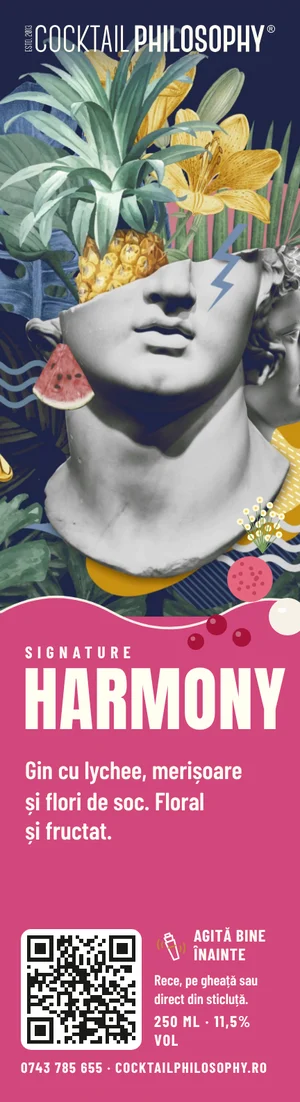
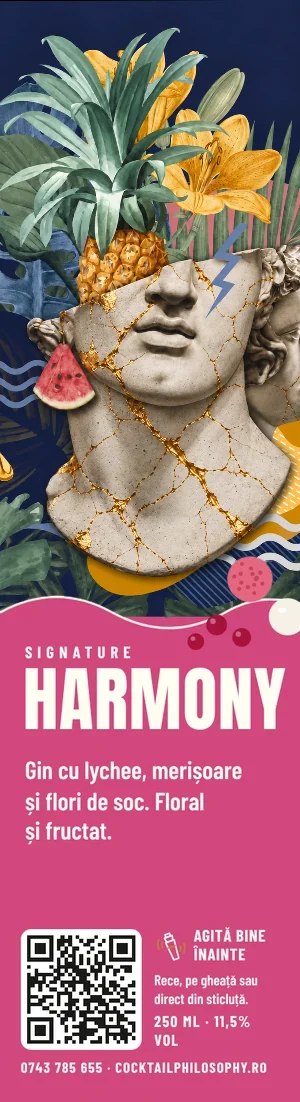
Sticluțe: etichetele de pe site cu statuia cu fisuri aurii
Claude-Session: https://claude.ai/code/session_019cz3UXkU5cUphGPstisMHZ

diff --git a/site-nou/sticlute.html b/site-nou/sticlute.html
@@ -142,11 +142,11 @@
 <h2 class="h2">Cinci cocktailuri, <span class="gold">cinci culori</span></h2>
 </div>
 <div class="serie">
-<article class="sticla st-platon"><img src="img/sticlute/platon.webp" alt="Eticheta sticluței Platon" width="300" height="1102" loading="lazy"><div><span>Signature</span><h3>Platon</h3><p>Gin cu grapefruit și aloe vera, cu o notă de cimbrișor. Proaspăt și ierbos.</p><small>250 ml · 10% vol</small></div></article>
-<article class="sticla st-erasmus"><img src="img/sticlute/erasmus.webp" alt="Eticheta sticluței Erasmus" width="300" height="1102" loading="lazy"><div><span>Signature</span><h3>Erasmus</h3><p>Vodka cu pere și ghimbir, înviorată cu lime. Dulce, cu o înțepătură caldă.</p><small>250 ml · 14% vol</small></div></article>
-<article class="sticla st-harmony"><img src="img/sticlute/harmony.webp" alt="Eticheta sticluței Harmony" width="300" height="1102" loading="lazy"><div><span>Signature</span><h3>Harmony</h3><p>Gin cu lychee, merișoare și flori de soc. Floral și fructat.</p><small>250 ml · 11,5% vol</small></div></article>
-<article class="sticla st-whiskey"><img src="img/sticlute/whiskey-sour.webp" alt="Eticheta sticluței Whiskey Sour" width="300" height="1102" loading="lazy"><div><span>Signature</span><h3>Whiskey Sour</h3><p>Whiskey cu citrice și migdale, rotunjit cu bitter. Clasicul catifelat.</p><small>250 ml · 15% vol</small></div></article>
-<article class="sticla st-pornstar"><img src="img/sticlute/pornstar-cuban.webp" alt="Eticheta sticluței Pornstar Cuban" width="300" height="1102" loading="lazy"><div><span>Signature</span><h3>Pornstar Cuban</h3><p>Rom cu fructul pasiunii și lămâie. Exotic și acrișor.</p><small>250 ml · 11% vol</small></div></article>
+<article class="sticla st-platon"><img src="img/sticlute/platon.webp?v=aur" alt="Eticheta sticluței Platon" width="300" height="1102" loading="lazy"><div><span>Signature</span><h3>Platon</h3><p>Gin cu grapefruit și aloe vera, cu o notă de cimbrișor. Proaspăt și ierbos.</p><small>250 ml · 10% vol</small></div></article>
+<article class="sticla st-erasmus"><img src="img/sticlute/erasmus.webp?v=aur" alt="Eticheta sticluței Erasmus" width="300" height="1102" loading="lazy"><div><span>Signature</span><h3>Erasmus</h3><p>Vodka cu pere și ghimbir, înviorată cu lime. Dulce, cu o înțepătură caldă.</p><small>250 ml · 14% vol</small></div></article>
+<article class="sticla st-harmony"><img src="img/sticlute/harmony.webp?v=aur" alt="Eticheta sticluței Harmony" width="300" height="1102" loading="lazy"><div><span>Signature</span><h3>Harmony</h3><p>Gin cu lychee, merișoare și flori de soc. Floral și fructat.</p><small>250 ml · 11,5% vol</small></div></article>
+<article class="sticla st-whiskey"><img src="img/sticlute/whiskey-sour.webp?v=aur" alt="Eticheta sticluței Whiskey Sour" width="300" height="1102" loading="lazy"><div><span>Signature</span><h3>Whiskey Sour</h3><p>Whiskey cu citrice și migdale, rotunjit cu bitter. Clasicul catifelat.</p><small>250 ml · 15% vol</small></div></article>
+<article class="sticla st-pornstar"><img src="img/sticlute/pornstar-cuban.webp?v=aur" alt="Eticheta sticluței Pornstar Cuban" width="300" height="1102" loading="lazy"><div><span>Signature</span><h3>Pornstar Cuban</h3><p>Rom cu fructul pasiunii și lămâie. Exotic și acrișor.</p><small>250 ml · 11% vol</small></div></article>
 </div>
 </div>
 </section>

diff --git a/site-nou/index.html b/site-nou/index.html
@@ -239,11 +239,11 @@
 <h2 class="h2">Barul nostru, <span class="gold">îmbuteliat.</span></h2>
 <p class="txt">Cele cinci cocktailuri ale casei, după aceleași rețete ca la bar, puse în sticluțe de 250 ml. Pentru evenimente mici, unde un bar întreg ar fi prea mult, și pentru baruri și restaurante care vor calitate constantă, fără bătăi de cap. Le agiți, le torni pe gheață și gata.</p>
 <div class="st-mini" aria-hidden="true">
-<img src="img/sticlute/platon.webp" alt="" width="300" height="1102" loading="lazy">
-<img src="img/sticlute/erasmus.webp" alt="" width="300" height="1102" loading="lazy">
-<img src="img/sticlute/harmony.webp" alt="" width="300" height="1102" loading="lazy">
-<img src="img/sticlute/whiskey-sour.webp" alt="" width="300" height="1102" loading="lazy">
-<img src="img/sticlute/pornstar-cuban.webp" alt="" width="300" height="1102" loading="lazy">
+<img src="img/sticlute/platon.webp?v=aur" alt="" width="300" height="1102" loading="lazy">
+<img src="img/sticlute/erasmus.webp?v=aur" alt="" width="300" height="1102" loading="lazy">
+<img src="img/sticlute/harmony.webp?v=aur" alt="" width="300" height="1102" loading="lazy">
+<img src="img/sticlute/whiskey-sour.webp?v=aur" alt="" width="300" height="1102" loading="lazy">
+<img src="img/sticlute/pornstar-cuban.webp?v=aur" alt="" width="300" height="1102" loading="lazy">
 </div>
 <a class="btn btn-gold" style="align-self:flex-start" href="sticlute.html">Vezi sticluțele</a>
 </div>
